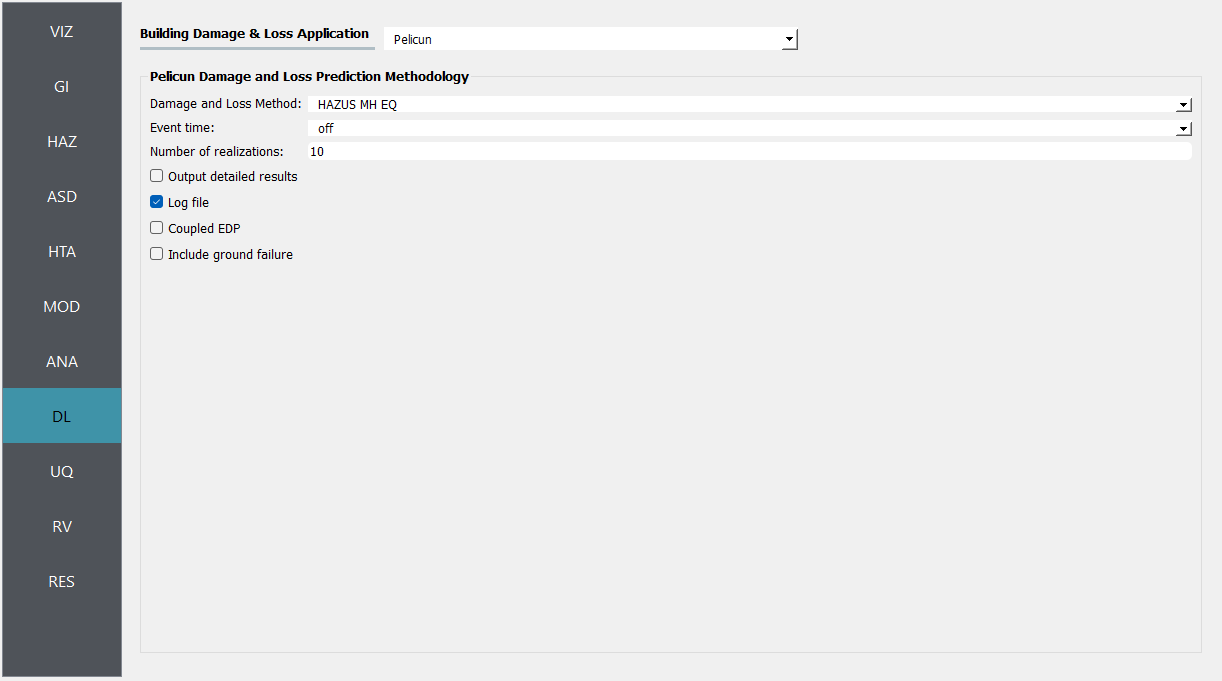
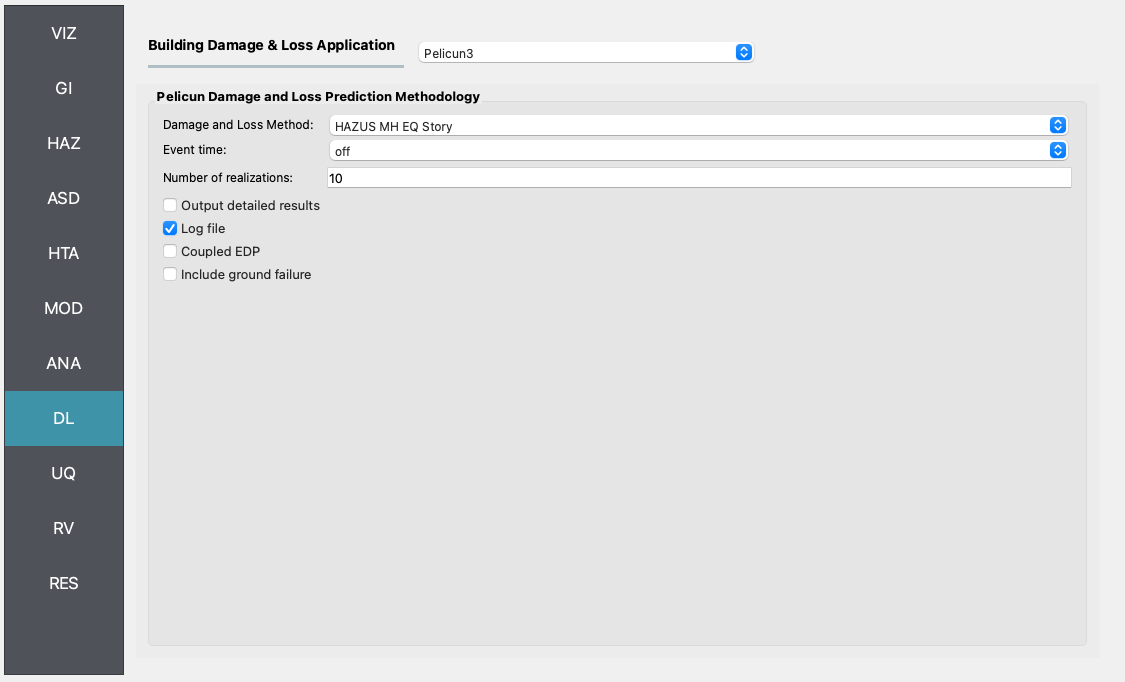
E12 doc update

diff --git a/E12IstanbulRegionalSeismicRiskAnalysis/README.rst b/E12IstanbulRegionalSeismicRiskAnalysis/README.rst
@@ -75,7 +75,7 @@ We now embark on our journey through the input panels of R2D, making known to th
       :align: center
 
 
-#. **DL**  The damage and loss panel is now used to configure the **Pelicun** backend. The **HAZUS MH EQ** damage and loss method is selected and configured as shown in the following figure.
+#. **DL**  The damage and loss panel is now used to configure the **Pelicun3** backend. The **HAZUS MH EQ Story** damage and loss method is selected and configured as shown in the following figure.
 
    .. figure:: figures/r2dt-0012-DL.png
       :width: 600px
